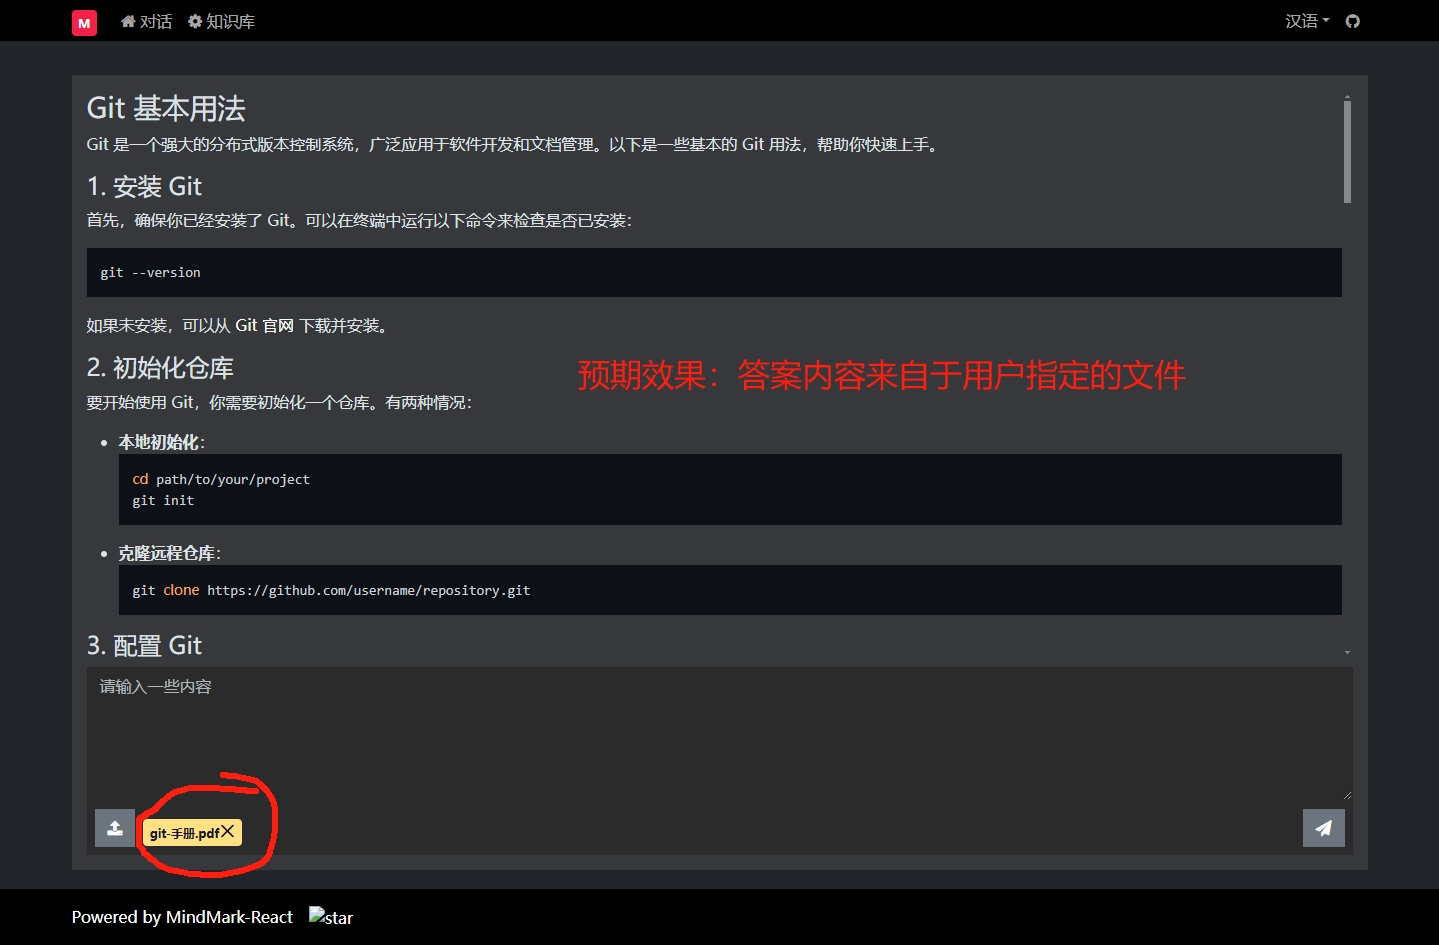
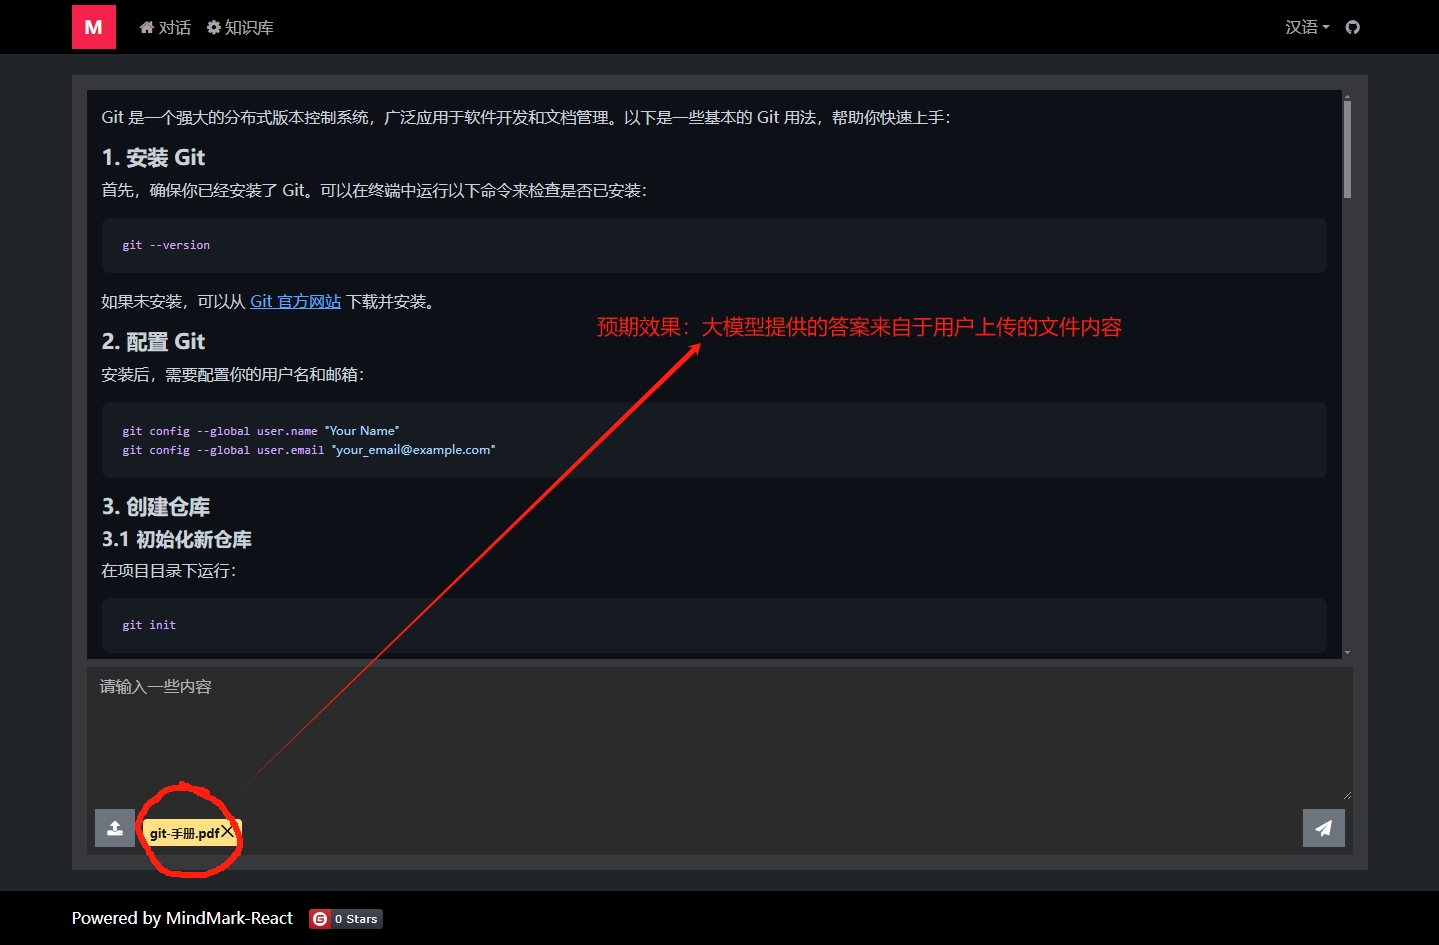
refactor-css

diff --git a/src/app/chat/index.scss b/src/app/chat/index.scss
@@ -24,33 +24,126 @@
       background-color: transparent;
     }
 
-    table {
-      border-collapse: collapse;
-      border: 1px solid #444;
-      background-color: #2b2b2b;
-      color: #f5f5f5;
-      margin: 1rem 0;
+    .bootstrap-markdown {
+      font-family: var(--bs-body-font-family);
+      font-size: var(--bs-body-font-size);
+      line-height: var(--bs-body-line-height);
+      color: #c9d1d9;
+      background-color: #0d1117;
+      padding: 15px;
     }
 
-    th,
-    td {
-      border: 1px solid #444;
-      padding: 8px;
-      text-align: left;
-      color: #e0e0e0;
-    }
-
-    th {
-      background-color: #444;
+    .bootstrap-markdown h1 {
+      font-size: calc(var(--bs-body-font-size) * 1.5);
+      font-weight: 600;
       color: #ffffff;
+      border-bottom: 1px solid #30363d;
+      padding-bottom: 0.3rem;
+      margin-bottom: 1rem;
     }
 
-    tr:nth-child(even) {
-      background-color: #3a3a3a;
+    .bootstrap-markdown h2 {
+      font-size: calc(var(--bs-body-font-size) * 1.4);
+      font-weight: 600;
+      color: #ffffff;
+      border-bottom: 1px solid #30363d;
+      padding-bottom: 0.2rem;
+      margin-bottom: 0.8rem;
     }
 
-    tr:nth-child(odd) {
-      background-color: #2b2b2b;
+    .bootstrap-markdown h3 {
+      font-size: calc(var(--bs-body-font-size) * 1.3);
+      font-weight: 600;
+      color: #c9d1d9;
+    }
+
+    .bootstrap-markdown h4 {
+      font-size: calc(var(--bs-body-font-size) * 1.2);
+      font-weight: 600;
+      color: #c9d1d9;
+    }
+
+    .bootstrap-markdown h5 {
+      font-size: calc(var(--bs-body-font-size) * 1.1);
+      font-weight: 600;
+      color: #8b949e;
+    }
+
+    .bootstrap-markdown h6 {
+      font-size: var(--bs-body-font-size);
+      font-weight: 600;
+      color: #8b949e;
+    }
+
+    .bootstrap-markdown p {
+      margin-bottom: 1rem;
+      color: #c9d1d9;
+    }
+
+    .bootstrap-markdown a {
+      color: #58a6ff;
+      text-decoration: underline;
+    }
+
+    .bootstrap-markdown a:hover {
+      color: #79c0ff;
+    }
+
+    .bootstrap-markdown code {
+      font-family: var(--bs-font-monospace);
+      background-color: #161b22;
+      padding: 0.2em 0.4em;
+      border-radius: 0.25rem;
+      font-size: 0.875em;
+      color: #d2a8ff;
+    }
+
+    .bootstrap-markdown ul,
+    .bootstrap-markdown ol {
+      padding-left: 1.5rem;
+      color: #c9d1d9;
+    }
+
+    .bootstrap-markdown li {
+      margin-bottom: 0.5rem;
+    }
+
+    .bootstrap-markdown blockquote {
+      padding: 0.5rem 1rem;
+      margin: 0 0 1rem;
+      font-size: 0.875em;
+      border-left: 0.25rem solid #58a6ff;
+      background-color: #161b22;
+      color: #8b949e;
+    }
+
+    .bootstrap-markdown pre {
+      background-color: #161b22;
+      color: #c9d1d9;
+      padding: 1rem;
+      border-radius: 0.5rem;
+      overflow-x: auto;
+      font-size: 0.875em;
+    }
+
+    .bootstrap-markdown table {
+      width: 100%;
+      border-collapse: collapse;
+      margin-bottom: 1rem;
+      background-color: #0d1117;
+    }
+
+    .bootstrap-markdown th,
+    .bootstrap-markdown td {
+      border: 1px solid #30363d;
+      padding: 0.5rem 0.75rem;
+      text-align: left;
+      color: #c9d1d9;
+    }
+
+    .bootstrap-markdown th {
+      background-color: #161b22;
+      color: #ffffff;
     }
   }
 

diff --git a/src/app/chat/index.jsx b/src/app/chat/index.jsx
@@ -213,12 +213,14 @@ export default function MarkdownRenderer() {
       <div className="content-area flex-grow-1">
         {
           markdownContent ?
-            <ReactMarkdown
-              remarkPlugins={[remarkGfm]}
-              rehypePlugins={[rehypeHighlight]}
-            >
-              {markdownContent}
-            </ReactMarkdown>
+            <div className="bootstrap-markdown">
+              <ReactMarkdown
+                remarkPlugins={[remarkGfm]}
+                rehypePlugins={[rehypeHighlight]}
+              >
+                {markdownContent}
+              </ReactMarkdown>
+            </div>
             :
             <div className="d-flex justify-content-center align-items-center h-100">
               <p className="fw-bold fs-4 text-center">{welcomeMsg}</p>

diff --git a/src/app/shared/nav-bar/index.jsx b/src/app/shared/nav-bar/index.jsx
@@ -62,7 +62,7 @@ const NavBar = props => {
     <Navbar collapseOnSelect expand="lg" className="bg-body-tertiary main-nav" fixed="top">
       <Container fluid="md">
         <Navbar.Brand href="/home">
-          <Tag severity="danger" value="M" style={{ backgroundColor: "#f6214b", color: "#fff" }}></Tag>
+          <Tag severity="danger" value="M" className='brand-logo'></Tag>
         </Navbar.Brand>
         <Navbar.Toggle aria-controls="responsive-navbar-nav" />
         <Navbar.Collapse>

diff --git a/src/app/shared/nav-bar/index.scss b/src/app/shared/nav-bar/index.scss
@@ -8,4 +8,13 @@ $textColor: #fff;
 .main-nav {
   background-color: $navbarBgColor !important;
   padding: 0;
+
+  .brand-logo {
+    background-color: rgb(246, 33, 75);
+    color: rgb(255, 255, 255);
+    border-radius: 0px;
+    font-size: 18px;
+    width: 44px;
+    height: 44px;
+  }
 }
